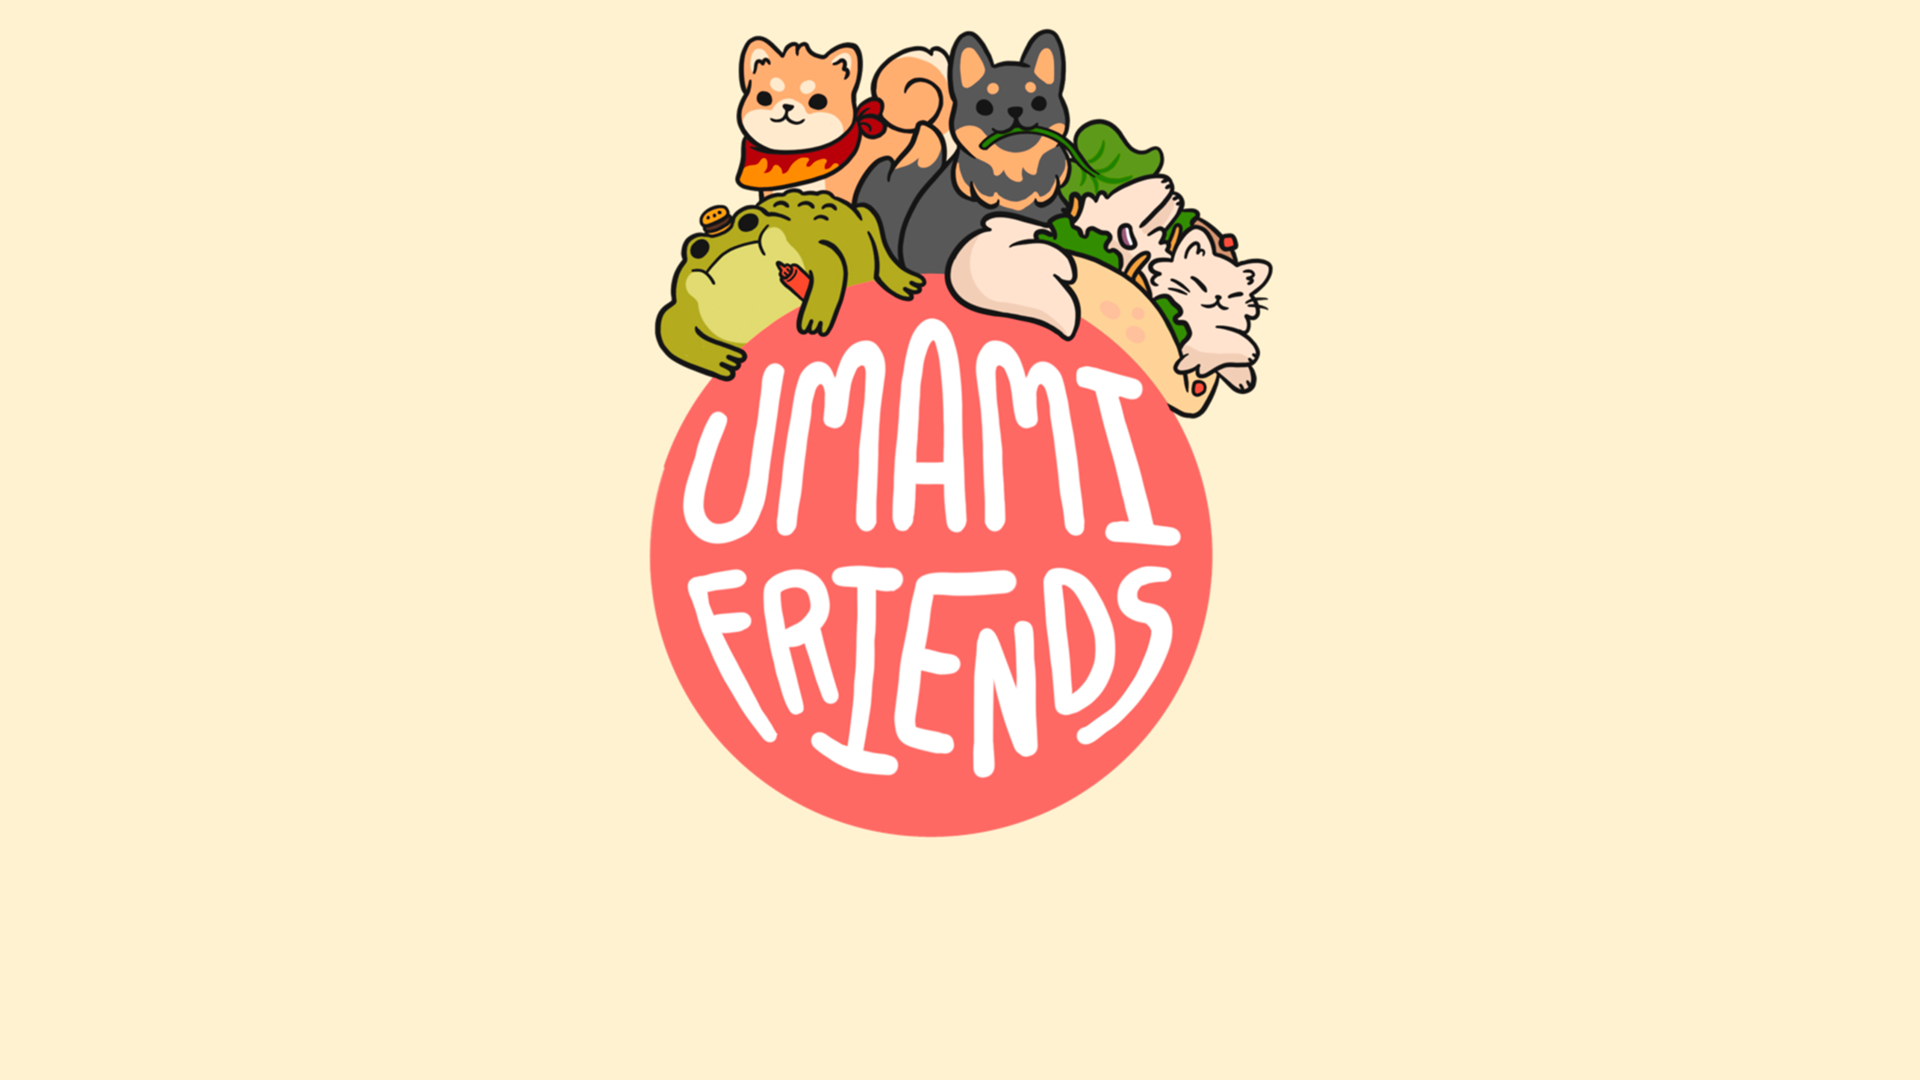
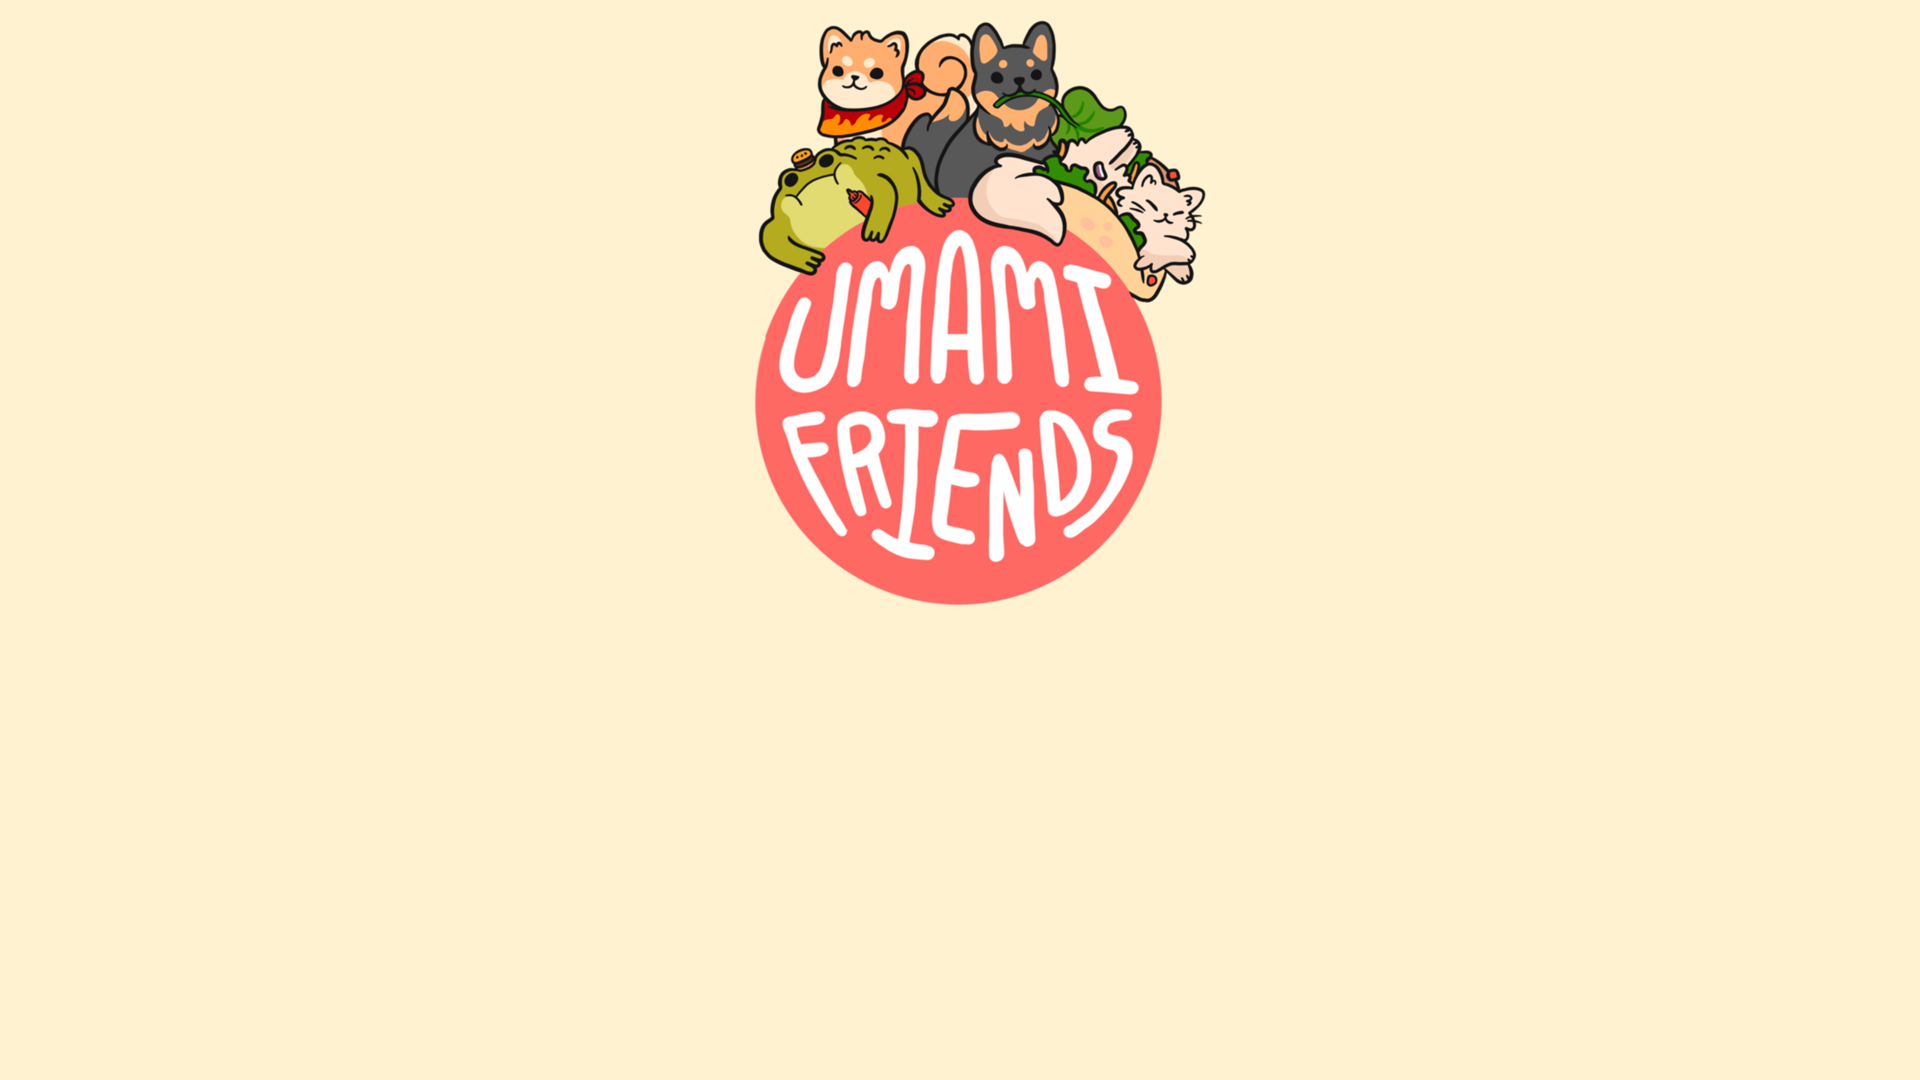
add more styling

Changed region(s): [[0.3125, 0.0, 0.6562, 0.7944]]

diff --git a/umami-friends/src/Components/HomePage/HomePage.js b/umami-friends/src/Components/HomePage/HomePage.js
@@ -64,6 +64,7 @@ function HomePage() {
     //TODO: Add slice of state for room code and another input box. Second button for start new?
     return (
         <div className='homeBackground'>
+            <img className='umamiLogo' alt='umami-logo' src={require(`../../Pictures/logo.jpg`)}/>
         <div className='homePage'>
             {userName ? <div className='userName'>User: {userName}</div> : <></>}
             {!userName ? (<div className='userInput'>
@@ -76,16 +77,17 @@ function HomePage() {
                 <button onClick={sendUser}>Set User Name</button>
             </div>) : null}
             <div className='roomInput'>
-                <div className='enterNewRoom'>
-                    <button onClick={enterNewRoom} className='enterRoomButton'>Create new room</button>
-                </div>
+
                 <input
                     type="text"
                     value={roomInput}
                     onChange={(e) => setRoomInput(e.target.value)}
                     onKeyDown={(e) => e.key == 'Enter' ? enterExistingRoom() : null}
                 />
-                <button onClick={enterExistingRoom}>Enter existing room</button>
+                <button onClick={enterExistingRoom}>Enter Existing Room</button>
+                <div className='enterNewRoom'>
+                    <button onClick={enterNewRoom} className='enterRoomButton'>Create New Game</button>
+                </div>
             </div>
         </div>
         </div>

diff --git a/umami-friends/src/Components/HomePage/HomePage.css b/umami-friends/src/Components/HomePage/HomePage.css
@@ -1,5 +1,5 @@
 .homeBackground {
-    background-image: url('../../Pictures/homeBackground.png'); /* Replace 'your-background-image.jpg' with the path to your image */
+    background-color: rgb(255, 242,208);
     background-size: cover;
     background-position: center;
     height: 100vh;
@@ -11,7 +11,7 @@
   .homePage {
     text-align: center;
     padding: 20px;
-    background-color: rgba(255, 0, 0, 0.5); /* Transparent red background */
+background-color: rgba(255, 0, 0, 0.5); /* Transparent red background */
     border-radius: 10px;
     position: fixed;
     bottom: 0;
@@ -19,11 +19,26 @@
     transform: translate(-50%, -50%);
     color: white; /* Text color */
   }
+  .umamiLogo {
+    text-align: center;
+    padding: 20px;
+    border-radius: 10px;
+    position: fixed;
+    top: 30%;
+    left: 50%;
+    max-width: 40%;
+    transform: translate(-50%, -50%);
+    color: white; /* Text color */
+  }
+  
   
   .userInput input,
-  .roomInput input {
+  .roomInput input,
+  .enterRoomButton {
     padding: 10px;
     margin-right: 10px;
+    margin-bottom: 10px;
+
   }
   
   .userInput button,
@@ -35,13 +50,13 @@
     border: none;
     border-radius: 4px;
     cursor: pointer;
-  }
-  .enterRoomButton{
-    margin-bottom: 10px;
-  }
+  } 
   
   .userName {
     font-size: 18px;
+    margin-bottom: 20px;
+  }
+  .userInput{
     margin-bottom: 10px;
   }
   
